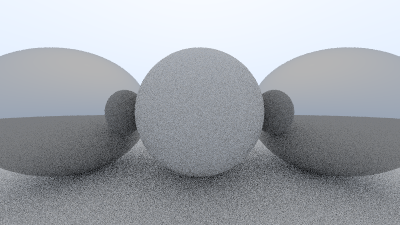
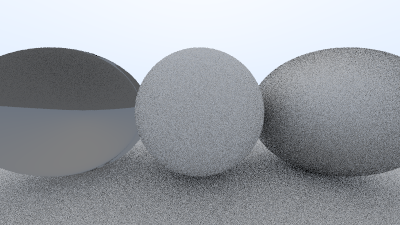
Add fuzz in metal and dielectric

diff --git a/raytracer/src/shape.rs b/raytracer/src/shape.rs
@@ -88,25 +88,37 @@ pub struct lambertian {
     pub albedo:vec3,
 }
 
-impl lambertian {
-    pub fn new(v0:f64, v1:f64, v2:f64)->lambertian {
-        lambertian{ albedo:vec3(v0, v1, v2) }
-    }
-}
-
 #[allow(non_camel_case_types)]
 pub struct metal {
     albedo:vec3,
+    fuzz:f64,
+}
+
+#[allow(non_camel_case_types)]
+pub struct dielectric {
+    ir:f64,
+}
+
+impl lambertian {
+    pub fn new(x:f64, y:f64, z:f64)->lambertian {
+        lambertian{ albedo:vec3(x, y, z) }
+    }
 }
 
 impl metal {
-    pub fn new(x:f64, y:f64, z:f64)->metal {
-        metal{ albedo:vec3(x, y, z) }
+    pub fn new(v:vec3, f:f64)->metal {
+        metal{ albedo:v, fuzz:f }
+    }
+}
+
+impl dielectric {
+    pub fn new(r:f64) -> dielectric {
+        dielectric{ ir:r }
     }
 }
 
 impl material for lambertian {
-    fn scatter( &self, _r:&ray, h:&hit, attenuation:&mut vec3, scattered:&mut ray) -> bool{
+    fn scatter(&self, _r:&ray, h:&hit, attenuation:&mut vec3, scattered:&mut ray) -> bool{
         let mut scatter_direction = h.norm + random_unit_vector();
 
         if scatter_direction.near_zero() {
@@ -120,10 +132,34 @@ impl material for lambertian {
 }
 
 impl material for metal {
-    fn scatter( &self, r:&ray, h:&hit, attenuation:&mut vec3, scattered:&mut ray) -> bool{
+    fn scatter(&self, r:&ray, h:&hit, attenuation:&mut vec3, scattered:&mut ray) -> bool{
         let reflected = reflect(r.dir.normalize(), h.norm);
-        *scattered = ray::new(h.pos, reflected);
+        *scattered = ray::new(h.pos, reflected + random_unit_sphere()*self.fuzz);
         *attenuation = self.albedo;
         return dot(scattered.dir, h.norm) > 0.0;
+    }
+}
+
+impl material for dielectric {
+    fn scatter(&self, r:&ray, h:&hit, attenuation:&mut vec3, scattered:&mut ray) -> bool{
+        *attenuation = vec3(1.0, 1.0, 1.0);
+        let refraction_ratio = { if h.front { 1.0/self.ir } else { self.ir } };
+
+        let unit_direction = r.dir;
+        let cos_theta = dot(-unit_direction, h.norm).min(1.0);
+        let sin_theta = sqrt(1.0-cos_theta*cos_theta);
+
+        let cannot_refract = refraction_ratio*sin_theta > 1.0;
+        let direction:vec3;
+
+        if cannot_refract {
+            direction = reflect(unit_direction, h.norm);
+        }
+        else {
+            direction = refract(unit_direction, h.norm, refraction_ratio);
+        }
+
+        *scattered = ray::new(h.pos, direction);
+        return true;
     }
 }

diff --git a/raytracer/src/main.rs b/raytracer/src/main.rs
@@ -35,7 +35,7 @@ pub fn ray_color(r:ray, objects:&ShapeList<Sphere>, depth:u32) -> vec3 {
 
     if objects.hit(&r, t_min, t_max, &mut i) { 
         let mut scattered:ray = ray::default();
-        let mut attenuation = vec3(0.0, 0.0, 0.0);
+        let mut attenuation = vec3(0f64, 0f64, 0f64);
         if i.mat_ptr.scatter(&r, &i, &mut attenuation, &mut scattered) {
             return ray_color(scattered, objects, depth-1)*0.5;
         }
@@ -74,9 +74,9 @@ fn main() {
 
     // Material List
     let material_ground = Rc::new(lambertian::new(0.8, 0.8, 0.0)); // why this b r g
-    let material_center = Rc::new(lambertian::new(0.7, 0.3, 0.3));
-    let material_left   = Rc::new(metal::new(0.8,0.8,0.8));
-    let material_right  = Rc::new(metal::new(0.2,0.8,0.6));
+    let material_center = Rc::new(lambertian::new(0.1, 0.2, 0.5));
+    let material_left   = Rc::new(dielectric::new(1.5));
+    let material_right  = Rc::new(metal::new(vec3(0.2,0.8,0.6), 1.0));
 
     // World
     let mut world = ShapeList::new();
@@ -90,7 +90,7 @@ fn main() {
  
     // Ray Trace!
     let start = Instant::now();
-    for y in (0..imgy).rev() { 
+    for y in 0..imgy { 
         for x in 0..imgx {
             let mut pixel_color = vec3(0.0, 0.0, 0.0);
             for _i in 0..sample_count {
